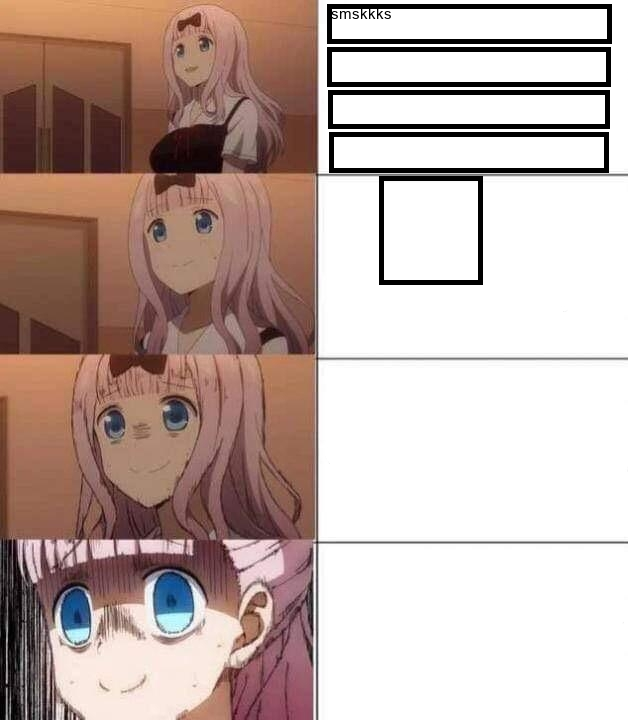
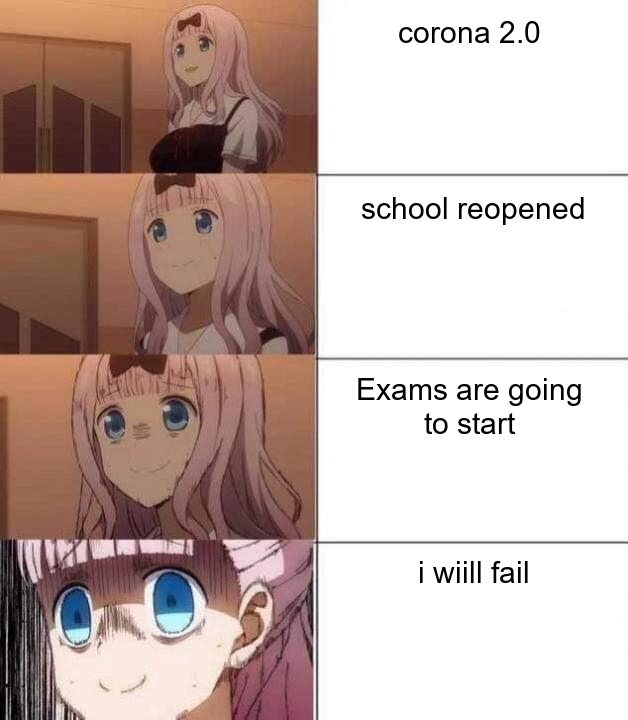
meme update

Changed region(s): [[0.5143, 0.0, 0.9984, 0.3972], [0.5446, 0.5194, 0.9379, 0.6111], [0.6656, 0.7639, 0.8471, 0.825]]

diff --git a/my_bot.py b/my_bot.py
@@ -497,6 +497,74 @@ async def instagram(ctx,user:typing.Optional[discord.Member]=None, *,caption= No
     if len(text1)>18:
         await ctx.send("Hey! Your name is longer than 18 Characters \n**Tip**: Keep it shorter :) ")    
     await ctx.send(file=discord.File("instagram.png"))
+#distract  
+@client.command(name='distract', aliases=['Distract',"distracted","Distracted"])
+async def distract(ctx, *,caption): 
+    resp=requests.get("https://i.imgur.com/WE18XMM.jpg") #distract 
+    post = Image.open(BytesIO(resp.content)) 
+    font = ImageFont.truetype("ARIAL.TTF", 40)
+    line1, line2, line3 = caption.split(",")
+    draw = ImageDraw.Draw(post)
+    lines1 = textwrap.wrap(line1,7)  
+    lines2 = textwrap.wrap(line2,7)
+    lines3 = textwrap.wrap(line3,7)
+    W1 = 376
+    H1 = 164
+    W2 = 563
+    H2 = 138
+    W3 = 110
+    H3 = 21
+    for line1 in lines1:
+        w1, h1 = font.getsize(line1)
+        draw.text((W1-w1/2,H1),line1,(0,0,0),font=font)
+        H1 += h1 
+    for line2 in lines2:
+        w2, h2 = font.getsize(line2)
+        draw.text((W2-w2/2,H2),line2,(0,0,0),font=font)
+        H2 += h2  
+    for line3 in lines3:
+        w3, h3 = font.getsize(line3)
+        draw.text((W3-w3/2,H3),line3,(0,0,0),font=font)
+        H3 += h3      
+    post.save("distracted.jpg")#185
+    await ctx.send(file=discord.File("distracted.jpg"))
+#thisisshit
+@client.command(name='thisisshit', aliases=['Thisisshit'])
+async def thisisshit(ctx,user:discord.Member=None): 
+    if user == None:
+        user = ctx.author
+    resp=requests.get("https://i.imgur.com/jtZqJ2u.jpg") #shit 
+    post = Image.open(BytesIO(resp.content)) 
+    asset = user.avatar_url_as(size=128)
+    data = BytesIO(await asset.read())   
+    pfp = Image.open(data)
+    pfp = pfp.resize((265,141))
+    post.paste(pfp,(9,159))   
+    post.save("thisisshit.jpg")    
+    await ctx.send(file=discord.File("thisisshit.jpg"))
+#water
+@client.command(name='water', aliases=['Water'])
+async def water(ctx, *,caption): 
+    resp=requests.get("https://i.imgur.com/wpN45qC.jpg") #water
+    post = Image.open(BytesIO(resp.content))  
+    font = ImageFont.truetype("ARIAL.TTF", 30)
+    W = 282
+    H1 = 36
+    
+    draw = ImageDraw.Draw(post)
+    lines = textwrap.wrap(caption,12)   
+    for line in lines:
+        w1, h1 = font.getsize(line)
+        draw.text((W-w1/2,H1),line,(0,0,0),font=font)
+        H1 += h1 
+    asset = ctx.author.avatar_url_as(size=128)
+    data = BytesIO(await asset.read())   
+    pfp = Image.open(data)
+    pfp = pfp.resize((86,94))
+    post.paste(pfp,(18,264))    
+    post.save("water.png")    
+    await ctx.send(file=discord.File("water.png"))
+#chika    
 @client.command(name='chika', aliases=['Chika'])
 async def chika(ctx, *,caption): 
     resp=requests.get("https://i.imgur.com/ZlnspzF.png") #chika 
@@ -504,39 +572,105 @@ async def chika(ctx, *,caption):
     #post = Image.open("chika.png") 
     font = ImageFont.truetype("ARIAL.TTF", 30)
     line1, line2, line3, line4 = caption.split(",") 
-    W = 473
-    H11 = 15
-    H12 = 57
-    H13 = 101
-    H14 = 143
+    W = 470
+    H1 = 15
+    H2 = 191
+    H3 = 372
+    H4 = 555
+    
     draw = ImageDraw.Draw(post)
-    line1 = textwrap.wrap(line1,13)
-    w11, h11 = draw.textsize(line1[0],font=font)
+    line11 = textwrap.wrap(line1,17)
+    line22 = textwrap.wrap(line2,17)
+    line33 = textwrap.wrap(line3,17)
+    line44 = textwrap.wrap(line4,17)
     
     
     
     
+    for element in line11:
+        w1, h1 = font.getsize(element)
+        draw.text((W-w1/2,H1),element,(0,0,0),font=font)
+        H1 += h1
+            
     
-    draw.text(((W-w11/2, H11-h11/2)),line1[0],(0,0,0),font=font,align="center",)
-    if len(line1[1])>0:
-        w12, h12 = draw.textsize(line1[1],font=font)
-        draw.text(((W-w12/2, H12-h12/2)),line1[1],(0,0,0),font=font,align="center",)
-    if len(line1[2])>0:
-        w13, h13 = draw.textsize(line1[2],font=font)
-        draw.text(((W-w13/2, H13-h13/2)),line1[2],(0,0,0),font=font,align="center",)
-    if len(line1[3])>0:
-        w14, h14 = draw.textsize(line1[3],font=font)
-        draw.text(((W-w14/2, H14-h14/2)),line1[3],(0,0,0),font=font,align="center",)        
+    for element2 in line22:
+        w2, h2 = font.getsize(element2)
+        draw.text((W-w2/2,H2),element2,(0,0,0),font=font)
+        H2 += h2
 
+            
+    for element3 in line33:
+        w3, h3 = font.getsize(element3)
+        draw.text((W-w3/2,H3),element3,(0,0,0),font=font)
+        H3 += h3
 
-    
-    print(line2)
-    print(line3)
-    print(line4)
+        
+    for element4 in line44:
+        w4, h4 = font.getsize(element4)
+        draw.text((W-w4/2,H4),element4,(0,0,0),font=font)
+        H4 += h4
+
+           
     
     
     post.save("chika.png")#185
     await ctx.send(file=discord.File("chika.png"))
+#myboi 
+@client.command(name='myboi', aliases=['myboy',"Myboi","Myboy"])
+async def myboi(ctx,user:discord.Member): 
+    
+    resp=requests.get("https://i.imgur.com/QTIHrse.jpg") #boy 
+    post = Image.open(BytesIO(resp.content)) 
+    text1 = ctx.author.display_name
+    text = textwrap.wrap(text1, 19)
+    W, H = (585,420)
+    draw = ImageDraw.Draw(post)
+    font = ImageFont.truetype("ARIAL.TTF", 60)
+    w, h = draw.textsize(text[0],font=font)
+    draw.text((W-w/2, H-h/2),text[0],(93,63,51),font=font,align="center")
+    asset = user.avatar_url_as(size=128)
+    data = BytesIO(await asset.read())   
+    pfp = Image.open(data)
+    pfp = pfp.resize((385,279))
+    post.paste(pfp,(1213,3))
+    
+    post.save("Myboi.png")    
+    await ctx.send(file=discord.File("Myboi.png"))
+
+     
+        
+#worthless
+@client.command(name='worthless', aliases=['Worthless'])
+async def worthless(ctx, *,caption): 
+    resp=requests.get("https://i.imgur.com/7yQETI9.png") #worthless 
+    post = Image.open(BytesIO(resp.content)) 
+     
+    font = ImageFont.truetype("ARIAL.TTF", 25)
+    W = 202
+    H1 = 75
+    
+    draw = ImageDraw.Draw(post)
+    lines = textwrap.wrap(caption,17)   
+    for line in lines:
+        w1, h1 = font.getsize(line)
+        draw.text((W-w1/2,H1),line,(0,0,0),font=font)
+        H1 += h1 
+    post.save("worthless.png")    
+    await ctx.send(file=discord.File("worthless.png"))
+#fbi    
+   
+@client.command(name='fbi', aliases=['Fbi'])
+async def fbi(ctx, *,msg):
+    resp=requests.get("https://i.imgur.com/OkhouW4.jpg")  
+    post = Image.open(BytesIO(resp.content))
+    font = ImageFont.truetype("Product_Sans_Regular.ttf", 35)     
+    #msg1 = str(msg)   
+    msg2 = textwrap.wrap(msg,33)
+    draw=ImageDraw.Draw(post)
+    draw.text((35,256),msg2[0],(0,0,0),font=font)
+    post.save("fbi.jpg")
+    await ctx.send(file=discord.File("fbi.jpg"))
+
 #jojo
 @client.command(name='jojo', aliases=['Jojo'])
 async def jojo(ctx,user:discord.Member=None ): 
@@ -553,6 +687,7 @@ async def jojo(ctx,user:discord.Member=None ):
     post.save("jojo.png")
     await ctx.send(file=discord.File("jojo.png"))
 #message................
+
 #announcement
 @client.command(name="announcement",aliases=["announce","Announce","Announcement"])
 @commands.has_permissions(manage_guild=True)
@@ -800,7 +935,7 @@ async def help(ctx):
     em.set_author(name = "**Help/Command List**",icon_url=f"{ctx.message.author.avatar_url}")
     em.add_field(name="🛡 Moderation",value="`kick` `ban` `clear`",inline=False)
     em.add_field(name="🤗 Roleplay",value="`wave` `nom` `blush` `bonk` `cry` `dance` `hug` `kill` `laugh` `pat` `poke` `pout` `rage` `slap` `sleep` `smile` `smug` `stare` `think` ",inline=False)
-    em.add_field(name="😆 Meme Generation",value="`wanted` `insta` `jojo`",inline=False)
+    em.add_field(name="😆 Meme Generation",value="`wanted` `insta` `jojo` `chika` `fbi` `worthless` `water` `thisisshit` `distract` `myboi`",inline=False)
     #em.add_field(name="💰 Economy",value="`withdraw` `slot` `shop` `sell` `rob` `leaderboard` `kira` `inventory` `give` `deposit` `buy` `beg` `balance` ",inline=False)
     em.add_field(name="🥳 Fun",value="`waifu` `say` `spoiler` `propose` `imposter` ",inline=False)
     em.add_field(name="🔧 Utility",value="`anime` `manga` `version` `dm` `avatar` `Bot`",inline=False)
